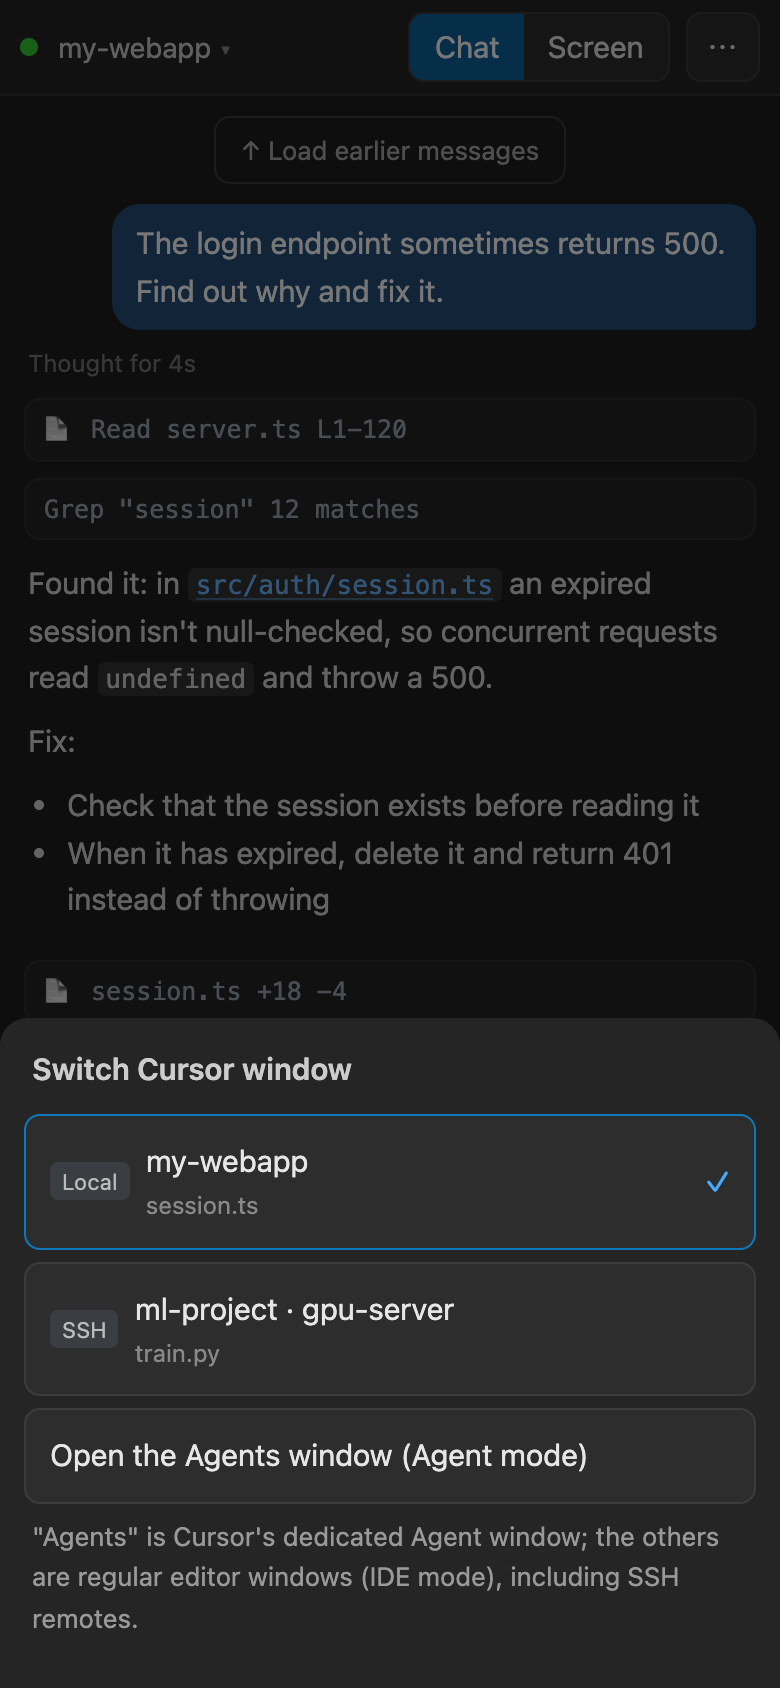
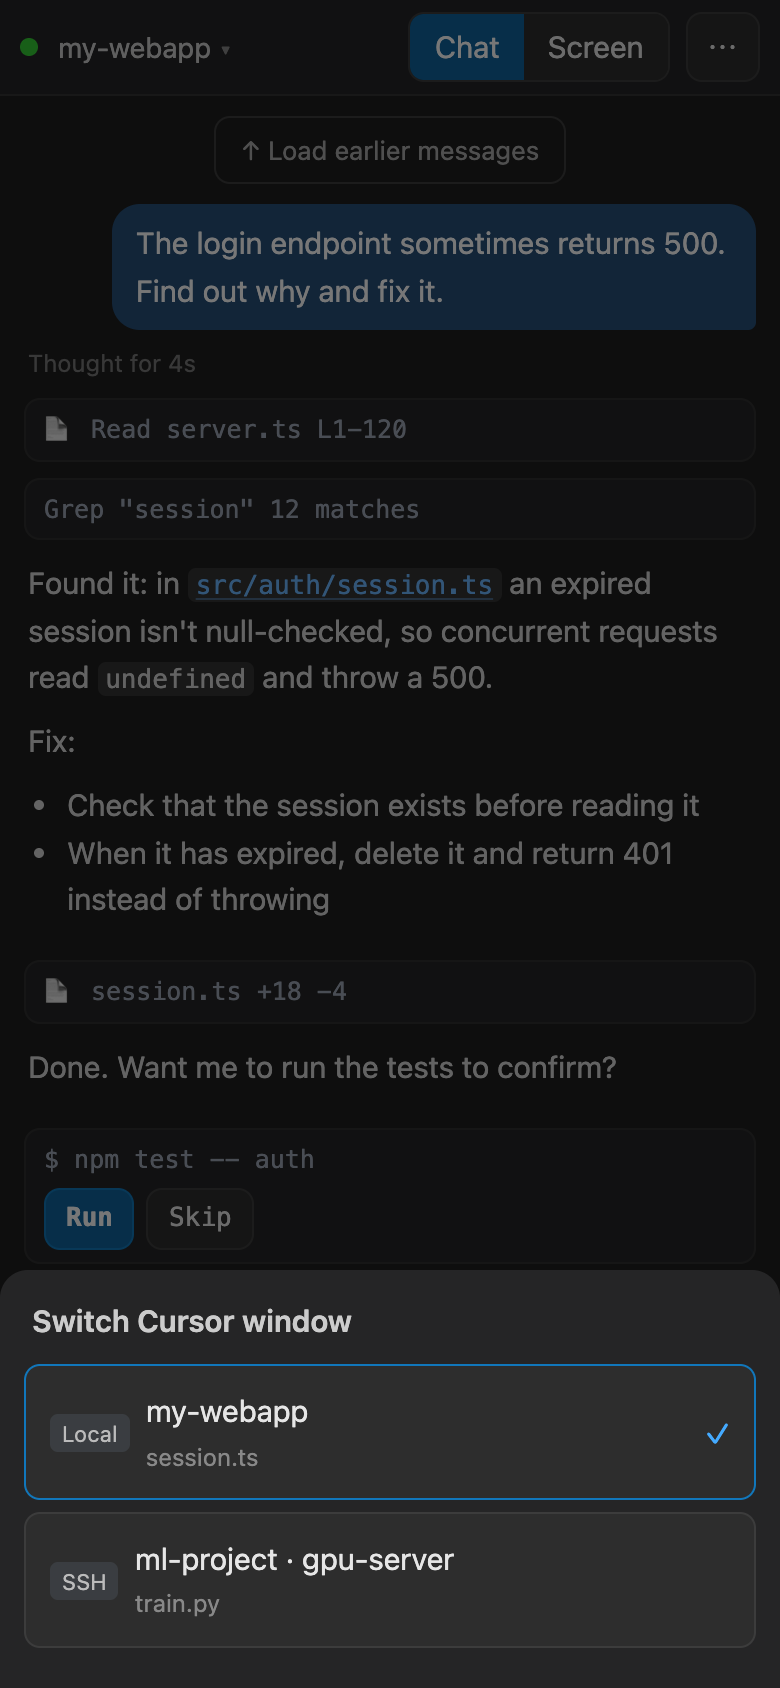
Remove the open-Agents-window shortcut; re-record README media

Changed region(s): [[0.0308, 0.6161, 0.9846, 0.9858]]

diff --git a/app/i18n.js b/app/i18n.js
@@ -25,7 +25,6 @@ const I18N = (() => {
     '电脑不在线：可能关机、睡眠，或服务刚重启（新地址约 1 分钟后生效）。会自动重试…': 'Computer offline: it may be off, asleep, or the service just restarted (a new address takes about a minute). Retrying automatically…',
     '这台设备已被移除，请重新配对': 'This device was removed. Please pair again.',
     '切换 Cursor 窗口': 'Switch Cursor window', '没有找到窗口': 'No windows found', '本地': 'Local',
-    '切到 Agents 窗口（Agent 模式）': 'Go to the Agents window (Agent mode)', '打开 Agents 窗口（Agent 模式）': 'Open the Agents window (Agent mode)',
     '「Agents」是 Cursor 专门跑 Agent 的窗口；其他是普通编辑器窗口（IDE 模式），SSH 远程窗口也在这里。': '"Agents" is Cursor\'s dedicated Agent window; the others are regular editor windows (IDE mode), including SSH remotes.',
     '选择模式': 'Mode', '选择模型': 'Model', '历史对话': 'Chat history', '菜单是空的，可能 Cursor 版本不同': 'The menu is empty; your Cursor version may differ',
     '更大上下文、更贵': 'Larger context, costs more', '参数': 'Params', '模型': 'Model', '改动会直接应用到电脑上 Cursor 的这个模型。': 'Changes apply directly to this model in Cursor on your computer.',
@@ -51,7 +50,7 @@ const I18N = (() => {
     '华为等没有谷歌服务的手机、任何浏览器都能装。下载后点开安装（如提示「未知来源」，允许即可）。': 'Works on phones without Google services (e.g. Huawei) and from any browser. Open the download to install (allow "unknown sources" if asked).',
     '首次打开填入这个地址：': 'On first launch, enter this address:', '复制': 'Copy', '或者：用浏览器安装（需要谷歌服务）': 'Or: install via the browser (needs Google services)',
     '切换中…': 'Switching…', '切换 MAX Mode…': 'Toggling MAX Mode…', '读取模型参数…': 'Loading model parameters…', '设置中…': 'Applying…',
-    '正在打开 Agents 窗口…': 'Opening the Agents window…', '已复制地址': 'Address copied', '复制失败，请手动记下地址': 'Copy failed; note the address manually',
+    '已复制地址': 'Address copied', '复制失败，请手动记下地址': 'Copy failed; note the address manually',
     '已发送测试通知，几秒内应该收到': 'Test notification sent; it should arrive within seconds', '发送失败': 'Send failed',
     '取消本机配对？之后要在电脑上重新运行 npm run pair 才能再用。': 'Unpair this device? You will need to run npm run pair on the computer again to use it.',
     '正在查看子 Agent 的对话（只读）': 'Viewing a subagent\'s chat (read-only)', '返回主对话': 'Back to main chat',
@@ -97,7 +96,7 @@ const I18N = (() => {
     'Agent 当前没有在运行': 'The Agent is not running', '当前窗口里没有这个按钮（可能是 Cursor 版本或布局不同）': 'This window has no such button (your Cursor version or layout may differ)',
     '这个 Cursor 版本没有 MAX Mode 开关': 'This Cursor version has no MAX Mode toggle', '模型列表里找不到这个模型': 'That model is not in the list',
     '这个模型没有可调的参数': 'This model has no adjustable parameters', '参数菜单没有打开（可能 Cursor 版本不同）': 'The parameter menu did not open (your Cursor version may differ)',
-    'Agents 窗口没有打开': 'The Agents window did not open', '不是文件路径': 'Not a file path', '二进制文件，不能预览': 'Binary file; cannot preview',
+    '不是文件路径': 'Not a file path', '二进制文件，不能预览': 'Binary file; cannot preview',
     '没有找到 Cursor 窗口，确认 Cursor 是以 --remote-debugging-port=9222 启动的': 'No Cursor window found; make sure Cursor was started with --remote-debugging-port=9222',
     'Cursor 窗口连接已断开': 'Lost connection to the Cursor window',
     '没找到可见的聊天输入框：先在画面里打开 Agent 面板（或点「打开聊天」）': 'No visible chat input: open the Agent panel in "Screen" first (or tap "Open chat")',

diff --git a/app/index.html b/app/index.html
@@ -601,10 +601,7 @@ function winLabel(title) {
 function showWindows() {
   const rows = windows.map(w => `<button class="opt ${w.id === currentWindow ? 'cur' : ''}" data-win="${esc(w.id)}">
     <span class="tag">${KIND_TAG[w.kind] || ''}</span><span class="lbl">${esc(winLabel(w.title || w.id).name)}${winLabel(w.title || '').file ? `<span class="sub">${esc(winLabel(w.title).file)}</span>` : ''}</span></button>`).join('');
-  const hasAgents = windows.some(w => w.kind === 'agents');
-  openSheet('windows', `<h3>切换 Cursor 窗口</h3>${rows || '<div class="hint">没有找到窗口</div>'}
-    <button class="opt" data-act="agentsWindow"><span class="lbl">${hasAgents ? '切到 Agents 窗口（Agent 模式）' : '打开 Agents 窗口（Agent 模式）'}</span></button>
-    <div class="hint">「Agents」是 Cursor 专门跑 Agent 的窗口；其他是普通编辑器窗口（IDE 模式），SSH 远程窗口也在这里。</div>`);
+  openSheet('windows', `<h3>切换 Cursor 窗口</h3>${rows || '<div class="hint">没有找到窗口</div>'}`);
 }
 $('title').onclick = () => { send({ t: 'windows' }); showWindows(); };
 
@@ -835,8 +832,7 @@ $('sheet').addEventListener('click', async e => {
   if (b.dataset.params) { status('读取模型参数…'); return send({ t: 'params', model: b.dataset.params, label: b.dataset.plabel }); }
   if (b.dataset.section) { status('设置中…'); return send({ t: 'pickParam', model: b.dataset.model, label: b.dataset.plabel, section: b.dataset.section, value: b.dataset.value }); }
   const act = b.dataset.act;
-  if (act === 'agentsWindow') { closeSheet(); status('正在打开 Agents 窗口…'); send({ t: 'agentsWindow' }); }
-  else if (act === 'install') showInstallHelp();
+  if (act === 'install') showInstallHelp();
   else if (act === 'browserInstall') { closeSheet(); installEvent?.prompt(); installEvent = null; }
   else if (act === 'copyAddress') {
     await navigator.clipboard?.writeText(appAddress()).then(() => status('已复制地址'), () => status('复制失败，请手动记下地址', false));

diff --git a/app/sw.js b/app/sw.js
@@ -1,5 +1,5 @@
 // Caches the app shell so the installed app opens instantly; live data (url.json, relay) always goes to the network.
-const CACHE = 'cursor-remote-v5';
+const CACHE = 'cursor-remote-v6';
 const SHELL = ['./', 'index.html', 'i18n.js', 'manifest.webmanifest', 'icon-192.png', 'icon-512.png'];
 
 self.addEventListener('install', e => {

diff --git a/README.en.md b/README.en.md
@@ -71,7 +71,7 @@ So this project provides both: an Android app that installs without Google servi
 - **File preview**: tap a file name in the conversation (shown in blue) or a tool card marked 📄 to view the file full screen with line numbers; images are displayed directly. Files in SSH remote windows are read via `ssh` (your computer needs passwordless ssh to that machine; if you already use Cursor over SSH, this is usually set up).
 - **Screen mode**: a live view of either just the chat panel or the whole window. Taps, scrolling, zooming and common keys are all sent to the computer.
 - **Notifications**: when an Agent finishes, or stops waiting for you to tap "Run / Allow", your phone gets a notification; tap it to jump straight to that window. All windows trigger alerts, except the one you're currently viewing on your phone.
-- **Multiple windows**: tap the window name in the top-left to switch windows, including SSH remote windows and the Agents window; you can also open the Cursor Agents window with one tap.
+- **Multiple windows**: tap the window name in the top-left to switch windows, including SSH remote windows and the Agents window.
 - **Modes / models / chat history**: switch between Agent / Plan / Ask, change models, open past conversations and start new ones, right from your phone.
 - **Model parameters**: tap "Parameters" in the model list to adjust context length (e.g. 300K / 1M), reasoning effort (Low → Max) and the Fast toggle; there's also a MAX Mode toggle at the top. Which options are available depends on what Cursor offers for that model.
 - **Queued messages**: messages sent while the Agent is running go into Cursor's queue. Your phone shows "Agent is running" plus each queued message, which you can edit, send immediately (interrupting the current turn) or delete. You can also stop the Agent with one tap.
